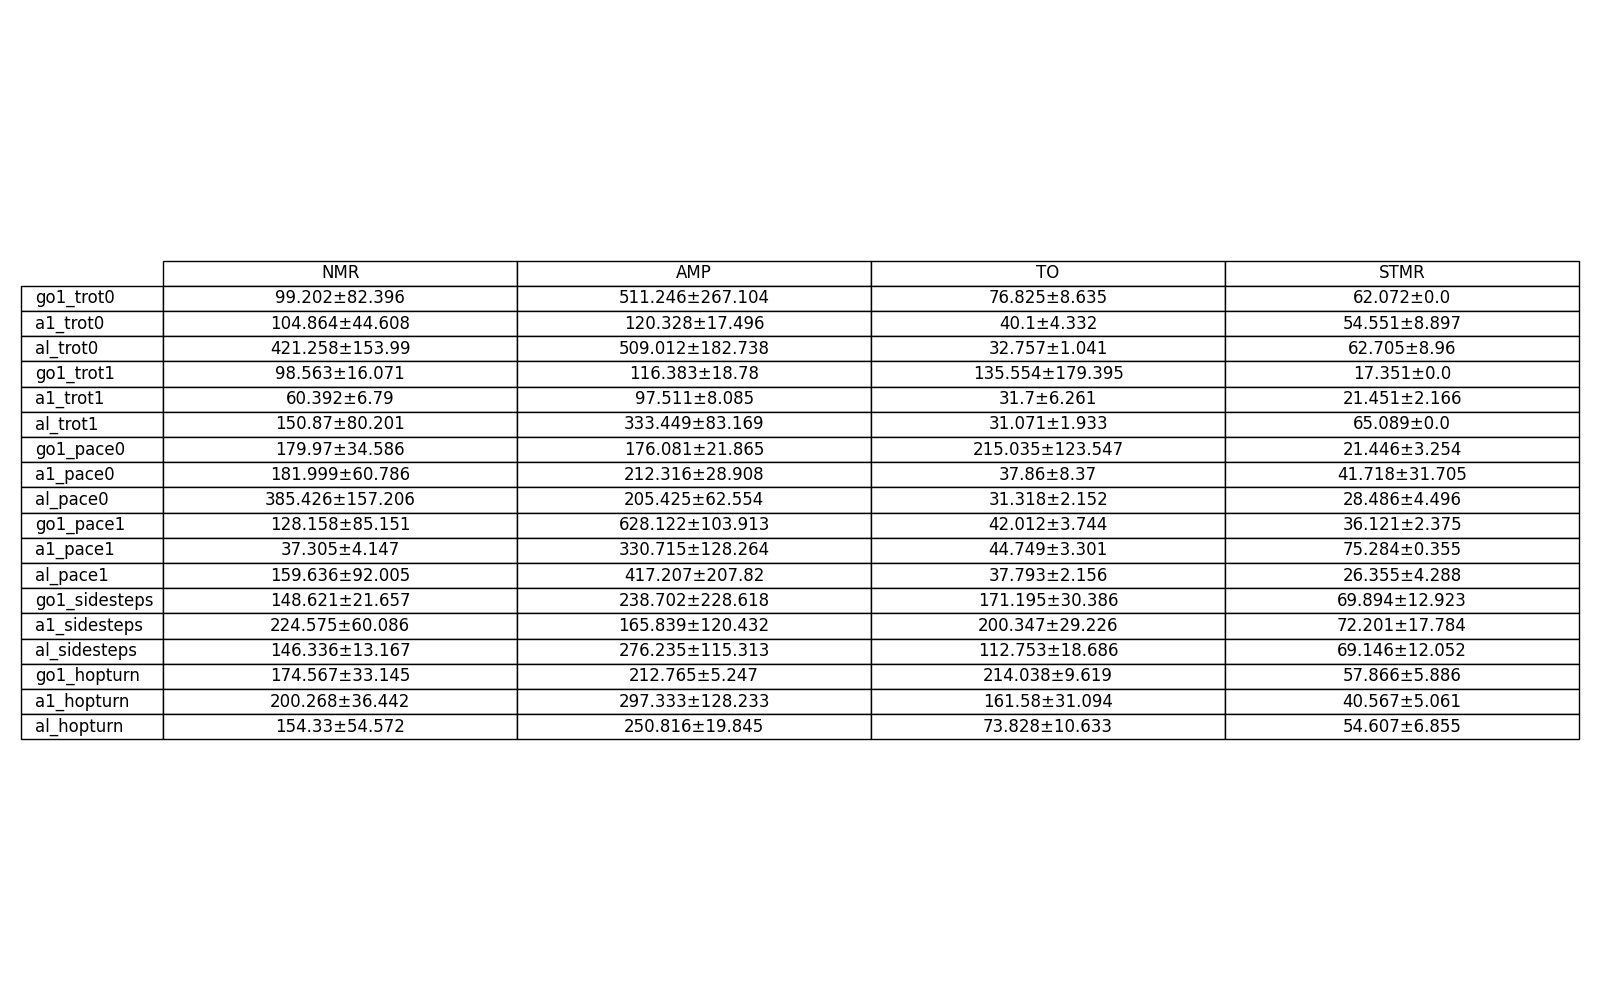
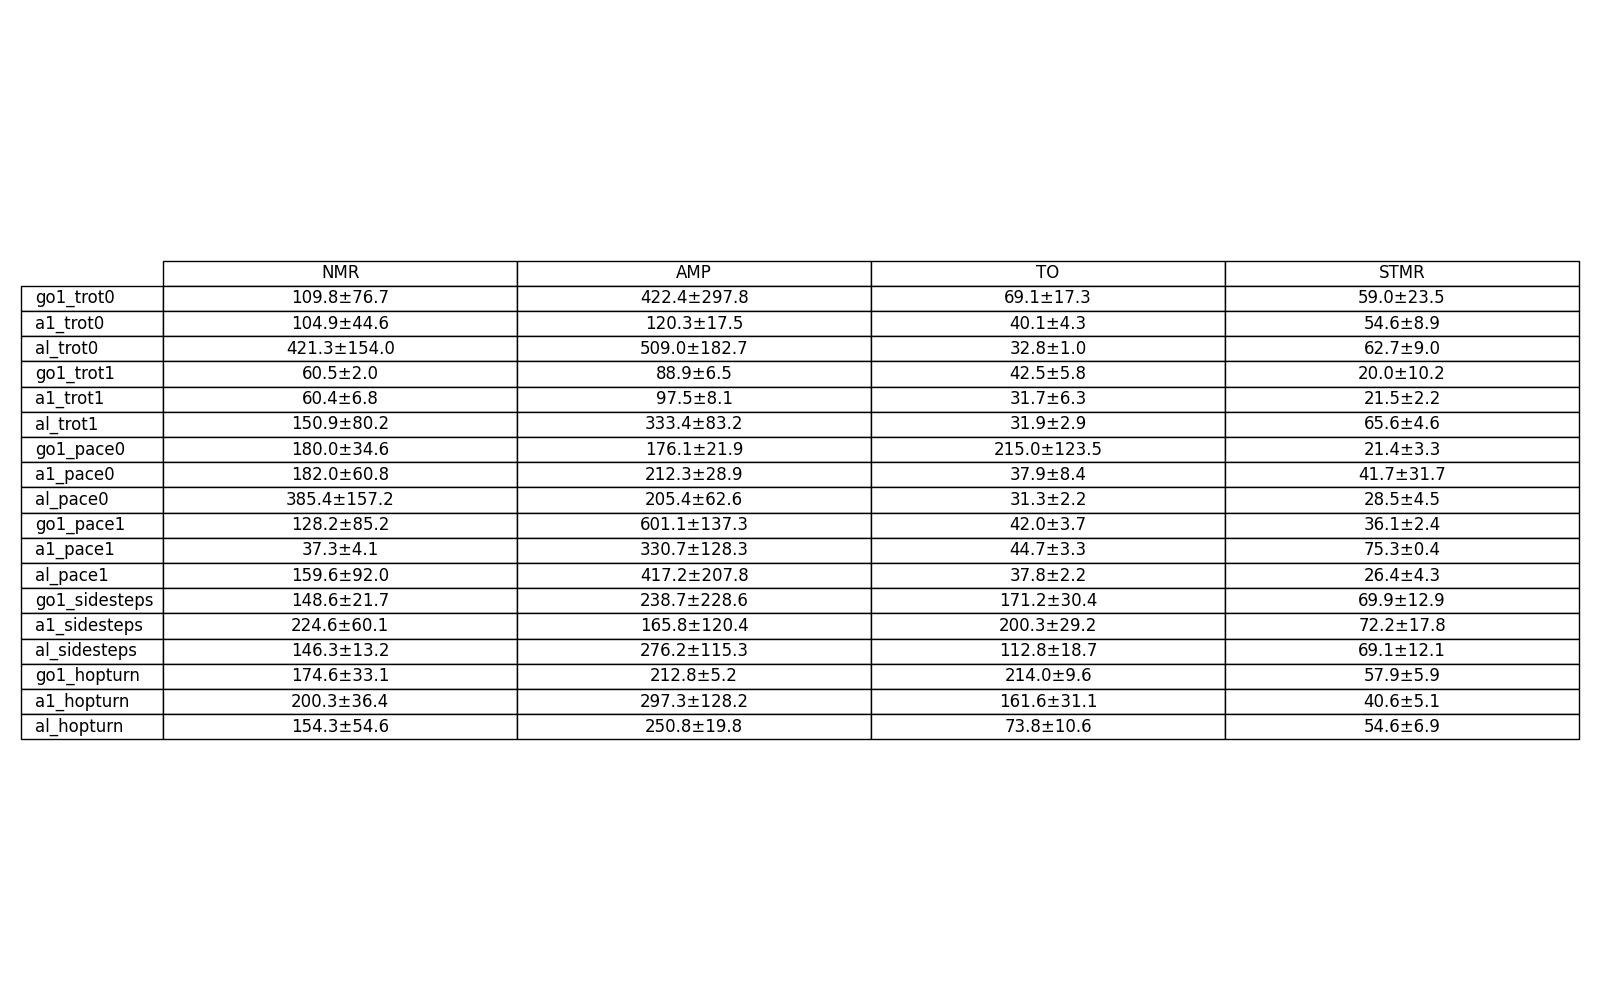
experiment for al sidesteps RAND

diff --git a/util_script/export_all.py b/util_script/export_all.py
@@ -2,18 +2,18 @@
 from util_script.export_onnx import export_onnx
 from util_script.export_json import export_json_files
 
-ROBOT = "go1base".lower()
+ROBOT = "albase".lower()
 if 'base' in ROBOT:
 	raw_robot_name = ROBOT.split("base")[0]
 else:
 	raw_robot_name = ROBOT
 NO_RAND = False
-MOTION = "pace1"
-SEED = 5
+MOTION = "sidesteps"
+SEED = 3
 MR = "STMR"
 task = f"{ROBOT}_{MR}_{MOTION}"	
 
-export_onnx(task, seed=SEED, NO_RAND=NO_RAND, device = 'cpu')
+# export_onnx(task, seed=SEED, NO_RAND=NO_RAND, device = 'cpu')
 export_json_files(raw_robot_name, MOTION, MR, PLOT=True)
 print('done')
 # %%

diff --git a/util_script/plot_performance.py b/util_script/plot_performance.py
@@ -143,8 +143,8 @@ def plot_last():
         if row not in res_dict_save.keys():
             res_dict_save[row] = {}
         for MR, distance_ls in col.items():
-            mean = np.round(1000*np.mean(distance_ls),3)
-            std  = np.round(1000*np.std(distance_ls),3)
+            mean = np.round(1000*np.mean(distance_ls),1)
+            std  = np.round(1000*np.std(distance_ls),1)
             res_dict_save[row][MR] = f"{mean}±{std}"
     
     df = pd.DataFrame(res_dict_save.values(), index=res_dict_save.keys())

diff --git a/legged_gym/envs/__init__.py b/legged_gym/envs/__init__.py
@@ -123,6 +123,12 @@ def get_cfg(ROBOT, MOTION, MR, NO_RAND=True):
         Cfg.rewards.exp_pos_motion     = 5
         Cfg.rewards.exp_ang_motion     = 1
         Cfg.rewards.exp_EE_motion      = 10
+    elif raw_robot_name == 'al' and not NO_RAND:
+        Cfg.rewards.exp_dof_pos_motion = 2
+        Cfg.rewards.exp_pos_motion     = 5
+        Cfg.rewards.exp_ang_motion     = 1
+        Cfg.rewards.exp_EE_motion      = 60
+
     else:
         Cfg.rewards.exp_dof_pos_motion = 2
         Cfg.rewards.exp_pos_motion     = 5

diff --git a/util_script/export_json.py b/util_script/export_json.py
@@ -78,6 +78,9 @@ def export_json_files(ROBOT, MOTION, MR, PLOT=False):
 			mujoco.mj_forward(model, data)
 			viewer.render()
 
+	if ROBOT == 'al':
+		mr_info.size.contact_criteria = mr_info.size.foot * 1.5
+
 	thres_dist = mr_info.size.contact_criteria
 	mj_contact_boolean = get_mujoco_contact_boolean(model, data, mr_info, qpos_np, thres_dist)
 
